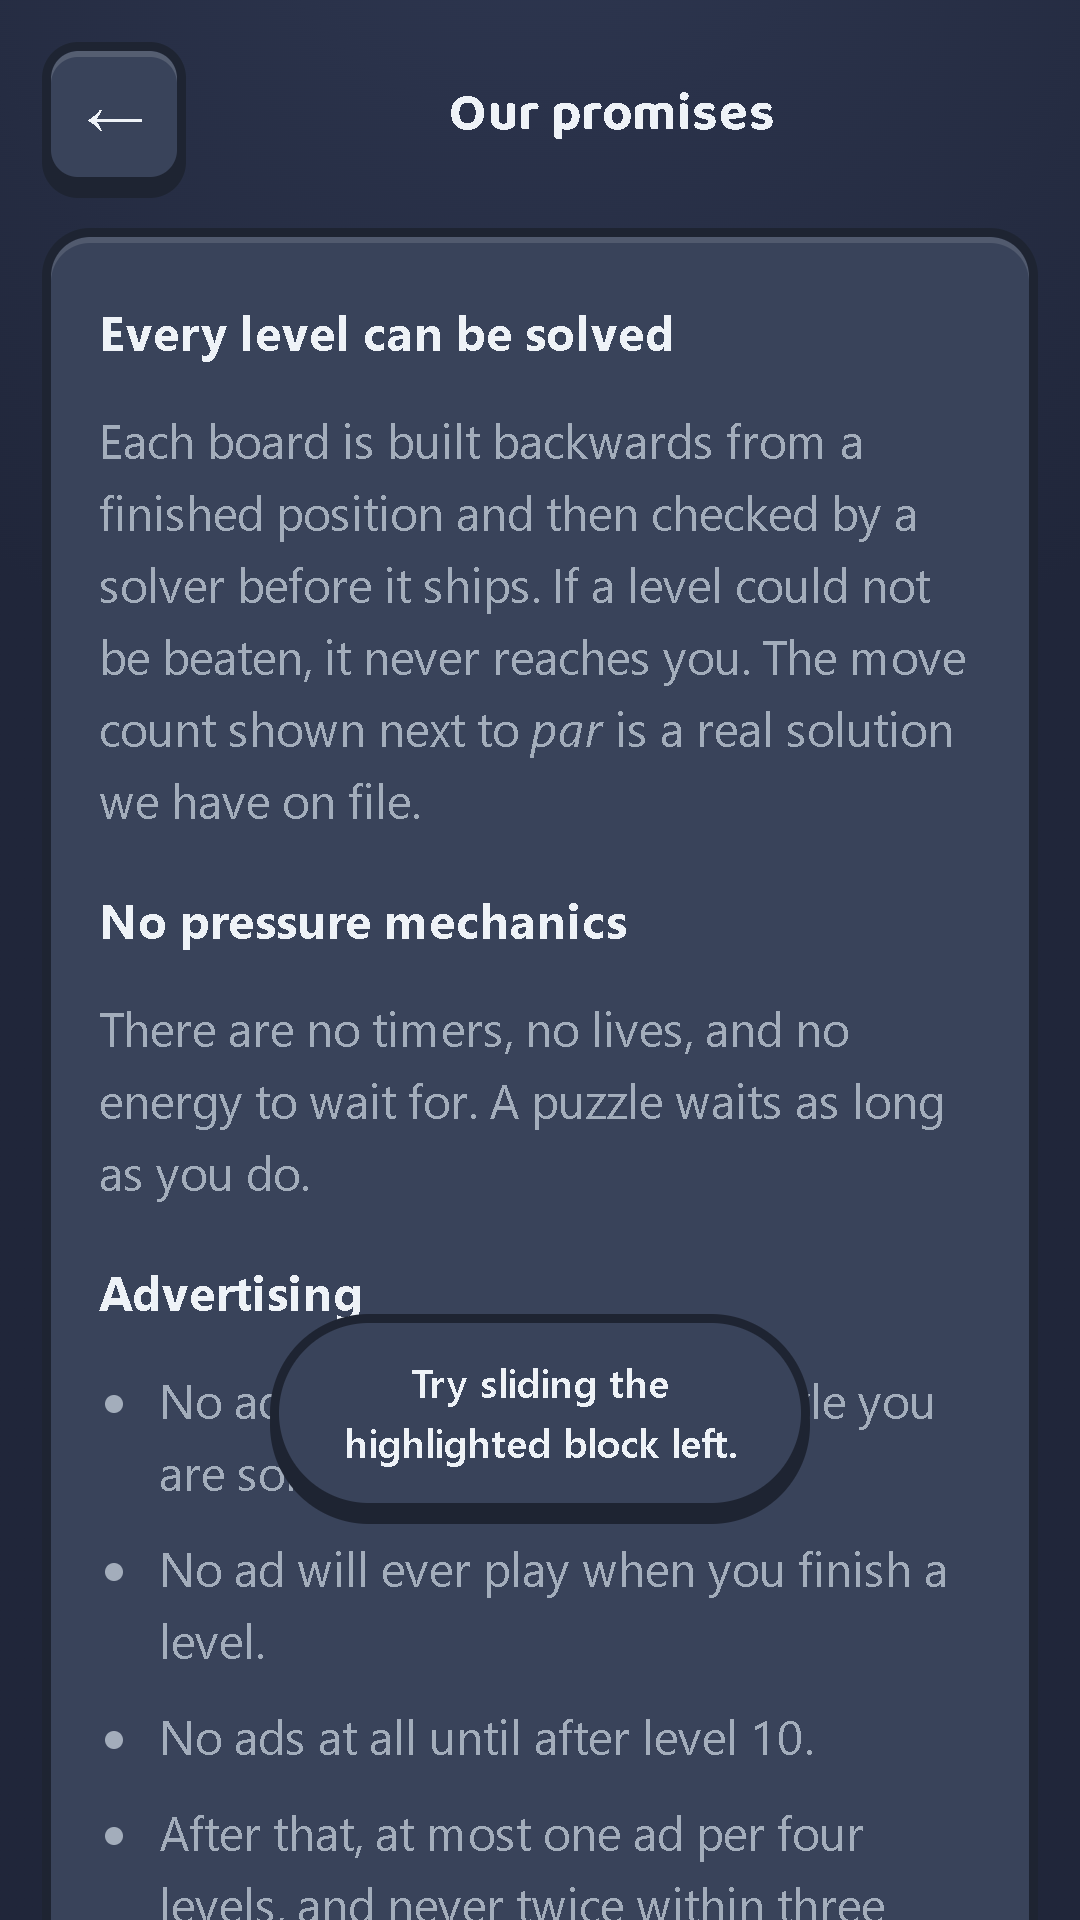
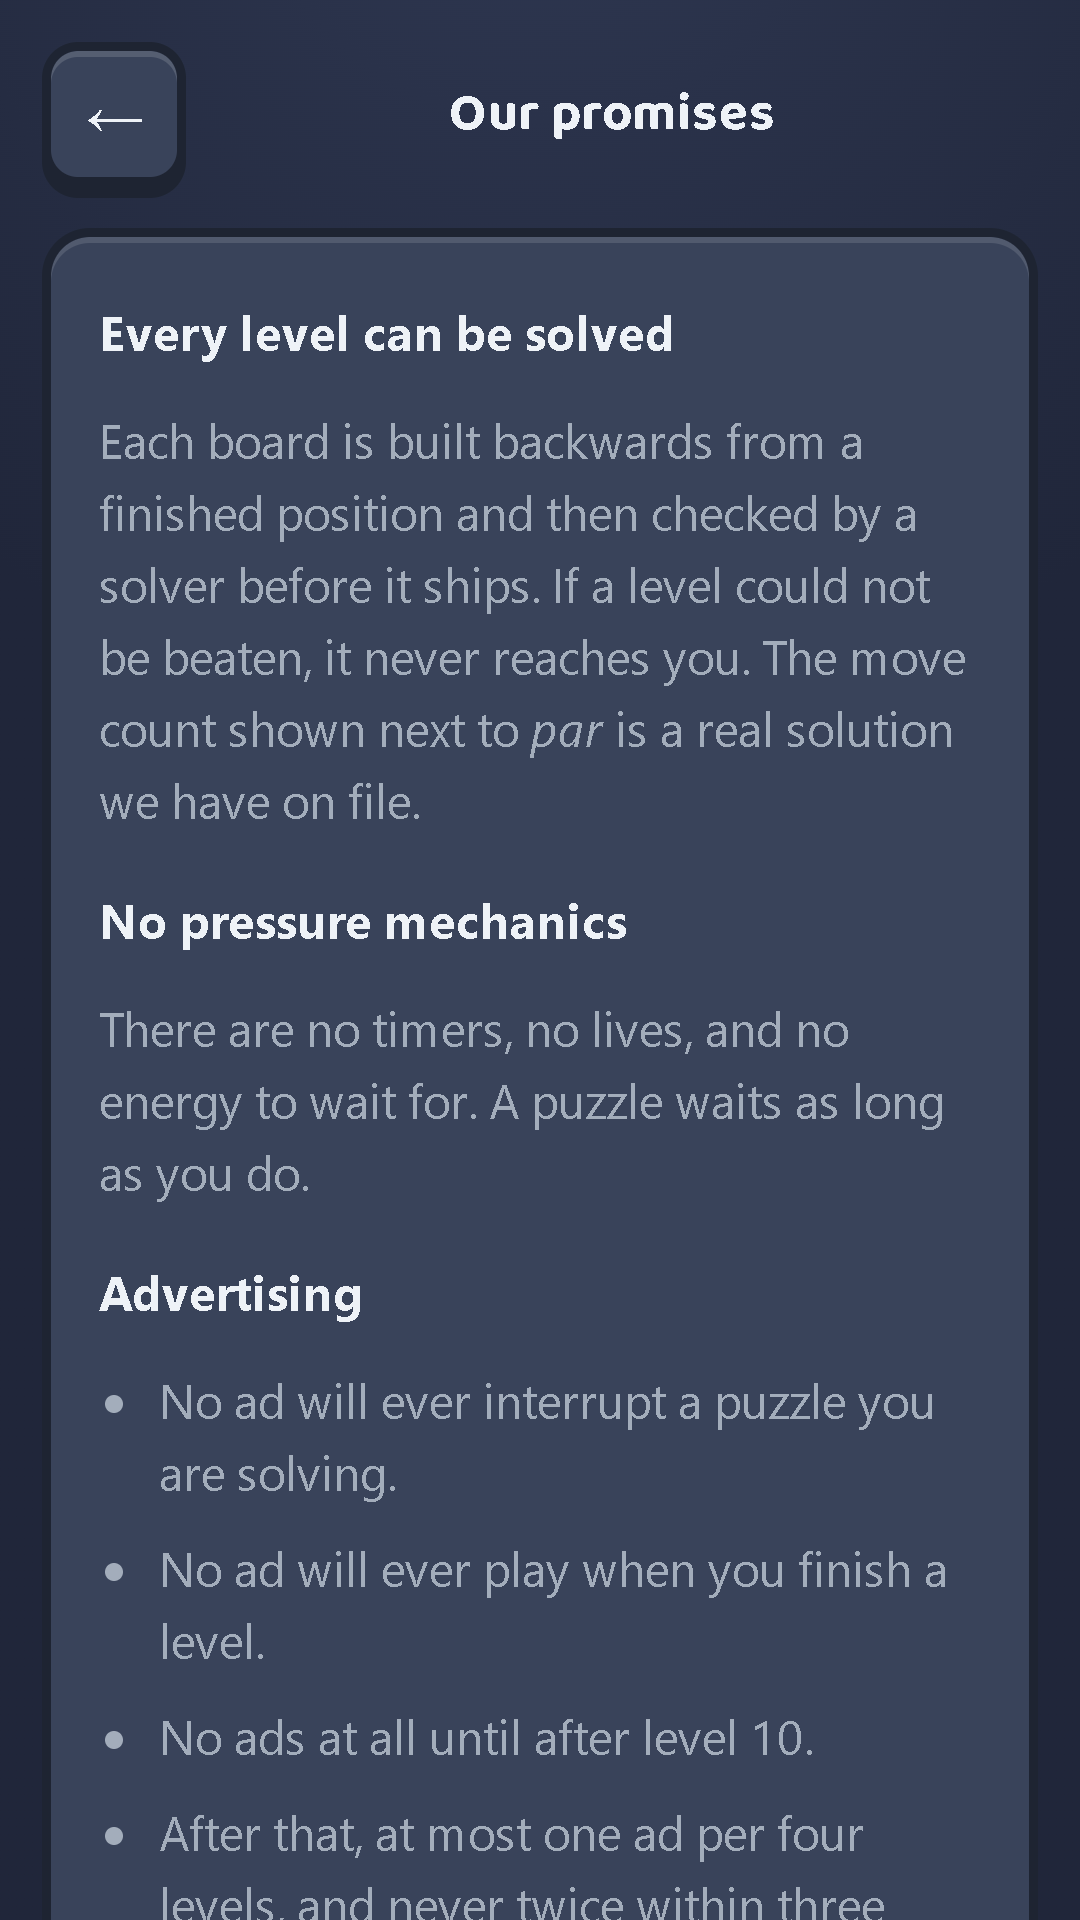
Ship only what exists: hide Remove Ads and align the listing with the game
There is no Play Billing yet, but Settings showed Remove ads and Restore
purchases (the first only toasted that it was "available in the Android
build", which is false there), the Promises screen promised a one-off
purchase, and the privacy policy described one. All three are gone until
billing exists. "Watching an ad is always your choice" described rewarded
ads that do not exist yet, so it is gone too.

Listing claims checked against the code: a half-solved board is not kept
when the app closes, one of the four themes is free, and the levels are
solver-checked rather than hand-verified. The copy and the home screen now
say so.

The store script now clears the hint toast before capturing the Promises
screenshot; it had been covering the list.

Changed region(s): [[0.2444, 0.6875, 0.7639, 0.8125]]

diff --git a/src/main.ts b/src/main.ts
@@ -153,7 +153,7 @@ function renderHome(): void {
   const cleared = Object.keys(saveData.bestMoves).length;
   $('home-progress').textContent =
     cleared === 0
-      ? `${LEVEL_COUNT} hand-verified levels. No timers, no lives.`
+      ? `${LEVEL_COUNT} solver-checked levels. No timers, no lives.`
       : `${cleared} of ${LEVEL_COUNT} levels cleared · ${saveData.coins} coins`;
   const sub = document.getElementById('home-continue-sub');
   if (sub) sub.textContent = saveData.highestUnlocked > 1 ? `Level ${saveData.highestUnlocked}` : '';
@@ -534,16 +534,6 @@ function bindSettings(): void {
   bind('set-haptics', 'haptics');
   bind('set-glyphs', 'colourBlindGlyphs');
   bind('set-motion', 'reduceMotion', () => applyTheme());
-
-  $('btn-remove-ads').addEventListener('click', () => {
-    toast('Remove Ads is a store purchase, available in the Android build.');
-  });
-
-  $('btn-restore').addEventListener('click', () => {
-    // On the web build there is nothing to restore; the native build asks the
-    // store. Either way a purchase is never lost silently.
-    toast(saveData.adsRemoved ? 'Remove Ads is already active.' : 'No purchases found on this device.');
-  });
 
   $('btn-reset').addEventListener('click', () => {
     confirmAction('Reset progress?', 'This clears every level, star and coin on this device. It cannot be undone.', () => {

diff --git a/src/game/ads.ts b/src/game/ads.ts
@@ -29,16 +29,18 @@ export const AD_POLICY = {
   everyHelpFreeOfCharge: true,
 } as const;
 
-/** Plain-language version of the above, rendered on the Promises screen. */
+/**
+ * Plain-language version of the above, rendered on the Promises screen.
+ * Every line must be true of the shipped build. Promises about opt-in
+ * rewarded ads and a Remove Ads purchase come back when those exist.
+ */
 export const AD_PROMISES: string[] = [
   'No ad will ever interrupt a puzzle you are solving.',
   'No ad will ever play when you finish a level.',
   'No ads at all until after level 10.',
   'After that, at most one ad per four levels, and never twice within three minutes.',
   'Hints, undo and restart are free, unlimited, and never cost coins.',
-  'Watching an ad is always your choice, and saying no costs you nothing.',
   'Coins buy themes. They are never required to finish a level.',
-  'Remove Ads is a one-off purchase and is restored whenever you reinstall.',
 ];
 
 export interface AdState {

diff --git a/index.html b/index.html
@@ -144,8 +144,7 @@
           </label>
           <label class="row"><span>Reduce motion</span><input type="checkbox" id="set-motion" /></label>
           <hr />
-          <button class="btn btn-quiet" id="btn-remove-ads">Remove ads</button>
-          <button class="btn btn-quiet" id="btn-restore">Restore purchases</button>
+          <!-- Remove Ads and Restore purchases return with real Play Billing. -->
           <button class="btn btn-danger" id="btn-reset">Reset progress</button>
           <p class="footnote">Progress is stored on this device only. Nothing is uploaded and no account is needed.</p>
         </div>

diff --git a/store/LISTING.md b/store/LISTING.md
@@ -48,8 +48,8 @@ nothing is ever locked behind a purchase.
 NO PRESSURE MECHANICS
 
 No countdown timers. No lives or energy to refill. No "you failed" screen. A
-puzzle waits exactly as long as you do, and you can put it down mid-level and
-come back next week.
+puzzle waits exactly as long as you do, and every level you clear is saved, so
+you can stop whenever you like.
 
 ABOUT ADS — OUR PROMISES, IN THE APP
 
@@ -63,7 +63,7 @@ Every promise below is written into the game itself, on the Promises screen:
 • Hints, undo and restart are always free
 • Coins buy themes and nothing else
 
-200 HAND-VERIFIED LEVELS
+200 SOLVER-CHECKED LEVELS
 
 The difficulty curve climbs and then deliberately levels off. Later puzzles
 stay hard, but they never tip over into the unbeatable walls that make people
@@ -71,8 +71,8 @@ delete this kind of game.
 
 PLAYS ANYWHERE
 
-Works completely offline. No account, no sign-in, nothing uploaded. Four
-themes to unlock with the coins you earn by playing.
+Works completely offline. No account, no sign-in, nothing uploaded. Three
+extra themes to unlock with the coins you earn by playing.
 
 BUILT TO BE READABLE
 
@@ -80,7 +80,8 @@ Block colours come from a colour-blind-safe palette, and you can turn on
 shapes so colour is never the only thing telling you where a block goes. A
 reduce-motion setting stops every animation.
 ```
-*About 2,050 characters.*
+*About 2,160 characters. Every claim here was checked against the code on 23
+October 2026; re-check when a feature changes.*
 
 ---
 

diff --git a/CLAUDE.md b/CLAUDE.md
@@ -106,7 +106,13 @@ messages, and push when a step is complete.
   synthesised ones, colour-blind shapes on by default, a shareable image of
   each cleared level.
 - A rewarded-ad placement: the unit is configured, but nothing calls
-  `showRewarded()` yet.
+  `showRewarded()` yet. Its promise ("watching an ad is always your choice")
+  was taken off the Promises screen until it exists.
+- **Remove Ads purchase**: hidden for the first release (owner's decision,
+  23 October 2026) because no Play Billing exists. The buttons, the promise
+  line and the privacy-policy section all come back with real billing, which
+  also needs a Play payments profile and a product in Play Console.
+  `adsRemoved` stays in the save data and the ad gate.
 - A parallel web release: CrazyGames (non-exclusive, Basic Launch needs no
   SDK) and self-hosting with AdSense H5 Games Ads. Needs a desktop/landscape
   layout first.

diff --git a/store/PRIVACY.md b/store/PRIVACY.md
@@ -1,6 +1,6 @@
 # Privacy Policy for Glazeway
 
-**Last updated: 18 September 2026**
+**Last updated: 23 October 2026**
 
 This policy explains what Glazeway does with your information. It is short
 because the game does very little.
@@ -46,12 +46,6 @@ settings, under **Settings → Google → Ads**.
 Glazeway is rated for players aged 13 and over and is not directed at
 children. We do not knowingly collect any information from anyone, including
 children.
-
-## Purchases
-
-If you buy "Remove Ads", the transaction is handled entirely by Google Play.
-We never see your payment details. The only thing stored is a flag on your own
-device recording that the purchase was made.
 
 ## Your rights
 
